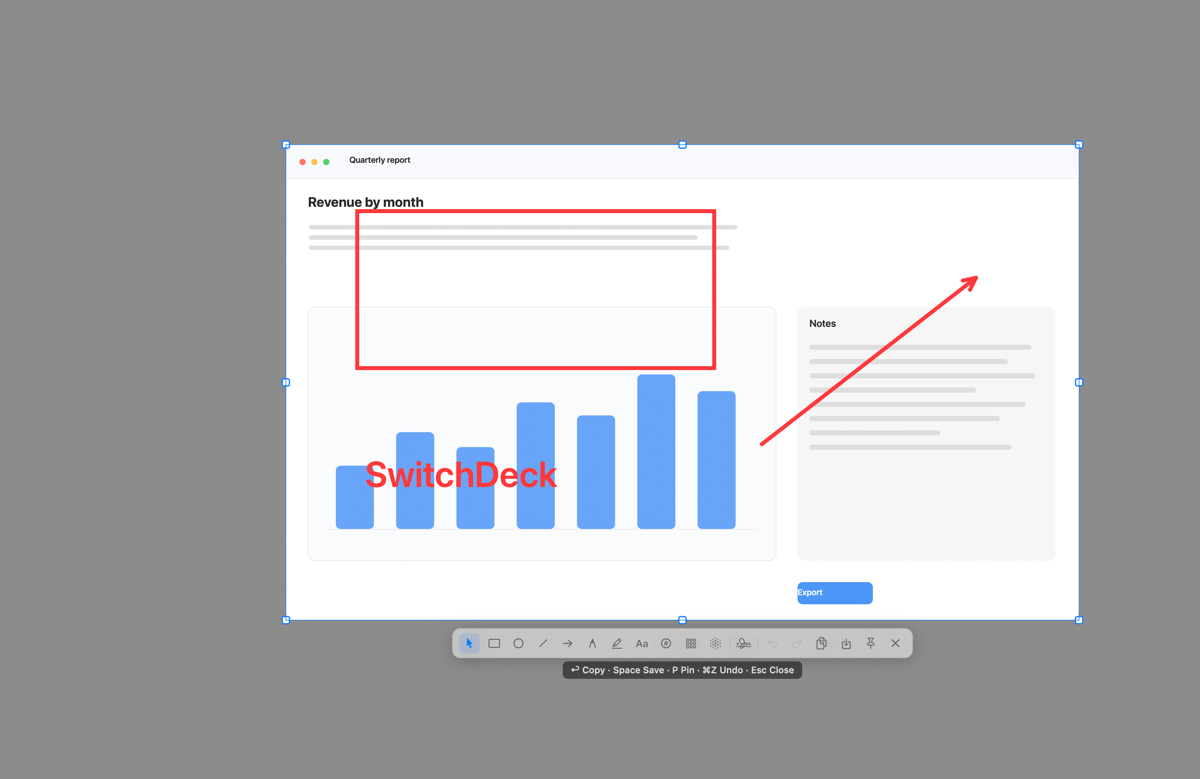
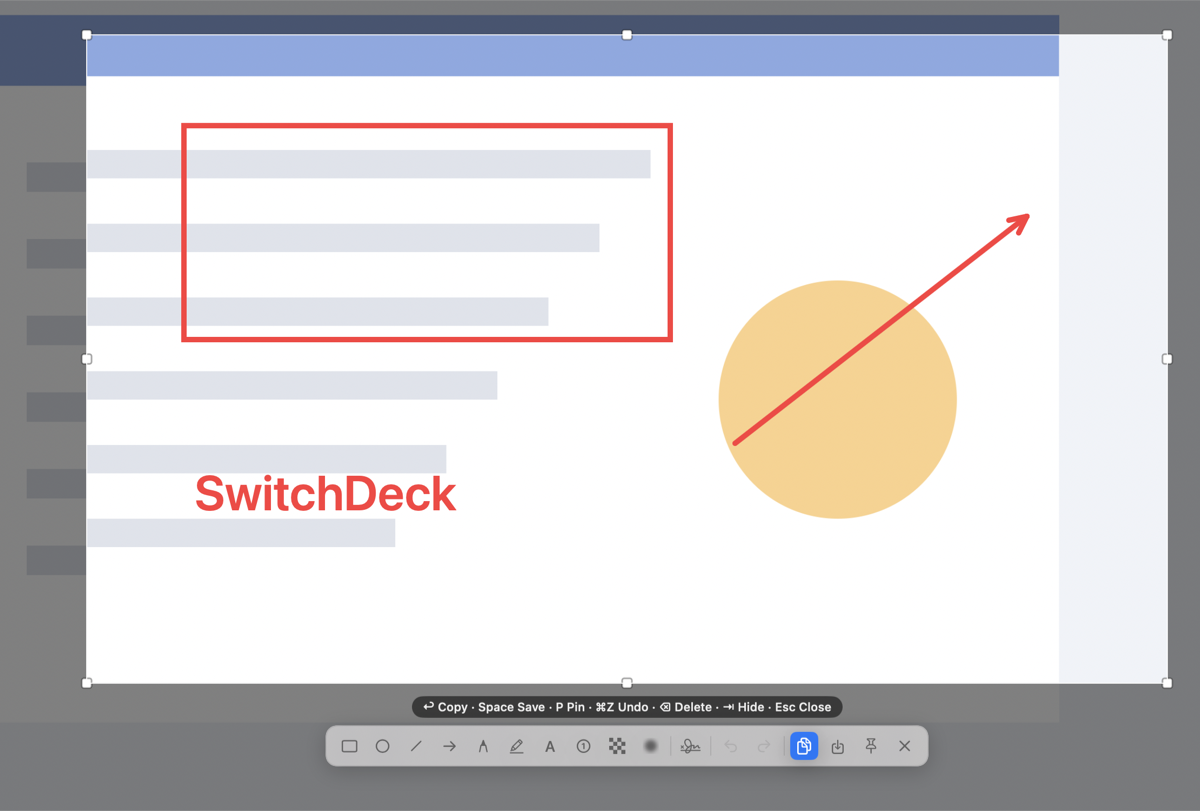
chore(release): 0.10.0 (#30)
* docs(readme): update the screenshot editor section and screenshot for the new toolbar

Assisted-by: AI

* chore(release): 0.10.0

Assisted-by: AI

diff --git a/README.md b/README.md
@@ -21,7 +21,7 @@ Native Swift on AppKit and SwiftUI, no third-party dependencies, free and Apache
 - **Your menu, your order.** Hide the switches you never use and drag the rest into place.
 - **Screenshots without switching apps.** Drag a region, mark it up where it is, then `Enter` to copy or `Space` to save.
 
-**Status: pre-1.0 (0.9.1).** Usable day to day, in English and Traditional Chinese. The settings file format may still change before 1.0.
+**Status: pre-1.0 (0.10.0).** Usable day to day, in English and Traditional Chinese. The settings file format may still change before 1.0.
 
 ## Install
 
@@ -87,16 +87,17 @@ Settings › Recording picks the folder and the microphone. `AVAudioRecorder` on
 
 ## Screenshot editor
 
-<p align="center"><img src="docs/images/editor.png" width="640" alt="The in-place editor: a frozen region with a red rectangle, an arrow and a label, and the tool strip under it"></p>
+<p align="center"><img src="docs/images/editor.png" width="640" alt="The in-place editor: a frozen region with a red rectangle, an arrow and a label, and the toolbar under it"></p>
 
 - `⌥E` starts a capture (change it in Settings › Screenshot). Drag a region, or click a window to capture that window alone (`⇧`-click several to compose them, then `Return` to edit); `F` takes the whole screen, `R` restores the last region.
 - Editing happens **in place**: the selection stays on screen, everything outside it dims, and the toolbar sits under the region — no second window.
-- Tools: rectangle, ellipse, line, arrow (straight / curved / elbow), freehand, highlighter, text (with an optional bubble), numbered markers, mosaic and blur. Picking a tool reveals its style row below; clicking the active tool again (or `Esc`, or `V`) puts it down.
+- Tools: rectangle, ellipse, line, arrow (straight / curved / elbow), freehand, highlighter, text (with an optional bubble), numbered markers, mosaic and blur. Hovering a tool shows its name and shortcut letter; picking one reveals its style row below, and clicking the active tool again (or `Esc`, or `V`) puts it down. `⇥` hides the toolbar.
 - With no tool picked, clicking an existing mark edits that object — the style row shows its own values — and dragging or the eight handles moves and resizes it; `⌫` deletes the selected mark.
+- Colours come from a shared 10-colour palette with recently used and a custom page (hex or RGB); `I` is an eyedropper. Colour and line width are remembered between launches.
 - While selecting, the colour and pixel coordinates under the pointer are shown; `⌥` cycles HEX / RGB / HSL and `C` copies the value and leaves capture mode.
 - The image freezes the moment editing starts, so mosaic and blur are exactly what gets saved. A delayed capture counts down in a small pill; press the shortcut again to cancel it.
 - `Enter` copies, `Space` saves (`~/Downloads`, PNG by default), `P` pins on screen, `⌘Z` / `⇧⌘Z` undo and redo, `Esc` closes; the folder, file-name prefix, format, quality and delay live in Settings › Screenshot.
-- The signature button adds a watermark (the macOS full user name, or text from Settings) with editable colour, position, size, angle and opacity, clipped to the capture; the eye-slash hides it from the image but keeps the text in the file metadata.
+- The signature button adds a watermark (the macOS full user name, or text from Settings) with a sub-bar for on/off, position (or tiled), size and colour, clipped to the capture; **More…** has the rest, including hiding it from the image while keeping the text in the file metadata. Settings › Screenshot sets the default position, size, angle, opacity and colour.
 - Pinned images: the corner × or `Esc` closes, scroll resizes, `⌘`-scroll changes opacity.
 
 ## Permissions

diff --git a/README.zh-TW.md b/README.zh-TW.md
@@ -21,7 +21,7 @@
 - **選單照你的習慣排。** 用不到的開關藏起來，其他的拖曳排序。
 - **截圖不用切換 App。** 拖出區域、原地標註，`Enter` 複製、`Space` 存檔。
 
-**狀態：pre-1.0（0.9.1）。** 已可日常使用，介面有英文與繁體中文。設定檔格式在 1.0 之前仍可能調整。
+**狀態：pre-1.0（0.10.0）。** 已可日常使用，介面有英文與繁體中文。設定檔格式在 1.0 之前仍可能調整。
 
 ## 安裝
 
@@ -91,12 +91,13 @@ open build/SwitchDeck.app
 
 - `⌥E` 擷取（在設定 › 截圖可改）。拖出區域，或點視窗只拍那個視窗（`⇧` 點多個合成一張，再按 `Return` 編輯）；`F` 全螢幕，`R` 上次的區域。
 - 擷取後**就地**編輯：選取範圍留在畫面上、範圍外變暗、工具列在選取區下方，不開第二個視窗。
-- 工具：矩形、橢圓、直線、箭頭（直線／曲線／折線）、手繪、螢光筆、文字（可加氣泡）、編號、馬賽克、模糊。選了工具，下方出現樣式列；再點同一個工具（或按 Esc、V）就放下工具。
+- 工具：矩形、橢圓、直線、箭頭（直線／曲線／折線）、手繪、螢光筆、文字（可加氣泡）、編號、馬賽克、模糊。游標停在工具上會顯示名稱與快捷字母；選了工具，下方出現樣式列；再點同一個工具（或按 Esc、V）就放下工具。`⇥` 隱藏工具列。
 - 沒選工具時點既有標記是改那個物件，樣式列顯示它自己的值；拖曳與八個控制點可移動、縮放，⌫ 刪除選取的標記。
+- 顏色來自共用的 10 色色盤，附最近使用與自訂頁（hex 或 RGB），`I` 是滴管；顏色與線寬跨啟動記住。
 - 選取時顯示指標下的顏色值與像素座標，`⌥` 切 HEX／RGB／HSL，`C` 複製並離開。
 - 編輯一開始影像就凍結，所以馬賽克與模糊就是存下來的結果。延遲擷取以小膠囊倒數，再按快速鍵取消。
 - `Enter` 複製、`Space` 存檔（預設 `~/Downloads`、PNG）、`P` 釘選、`⌘Z`／`⇧⌘Z` 復原與重做、`Esc` 關閉；資料夾、檔名前綴、格式、品質與延遲在設定 › 截圖。
-- 簽名按鈕加浮水印（macOS 使用者全名，或設定裡的字），顏色、位置、大小、角度與不透明度都可改，裁在範圍內；眼睛斜線只把它從影像隱藏，文字仍留在檔案中介資料。
+- 簽名按鈕加浮水印（macOS 使用者全名，或設定裡的字），子選單可開關、選位置（或平鋪）、調大小與顏色，裁在範圍內；「更多…」有其餘選項，包括從影像隱藏但文字仍留在檔案中介資料。預設的位置、大小、角度、不透明度與顏色在設定 › 截圖。
 - 釘選的圖：× 或 `Esc` 關閉，滾輪縮放，`⌘`+滾輪改不透明度。
 
 ## 權限

diff --git a/docs/releases/0.10.0.md b/docs/releases/0.10.0.md
@@ -1,0 +1,55 @@
+# SwitchDeck 0.10.0
+
+The screenshot editor's toolbar is redesigned, and the project is now licensed
+under Apache-2.0.
+
+## License
+
+- **Apache-2.0.** The source is now released under the Apache License 2.0, with
+  a `NOTICE` and `TRADEMARKS.md`. Versions published earlier under the MIT
+  License remain available under their original terms.
+
+## New
+
+- **Toolbar hints and shortcuts.** Hovering a tool shows its name and shortcut;
+  the tools have single-letter shortcuts (`R O L A D H T N M B`), `⇥` hides the
+  toolbar, and shortcuts are ignored while dragging.
+- **No Select button.** With no tool picked you select, move and resize marks
+  directly; click the active tool again, or press `Esc` or `V`, to put it down,
+  and `⌫` deletes the selected mark.
+- **Shared colour palette.** Ten colours, recently used, a custom page (hex and
+  RGB) and an eyedropper (`I`). Colour and line width are remembered between
+  launches.
+- **Watermark sub-bar.** On/off, position (or tiled), size and colour sit in the
+  options row; **More…** has the rest. Settings › Screenshot sets the default
+  position, size, angle, opacity and colour.
+- **Extension hooks.** A host package can add a capture toolbar item, take over
+  a capture, and supply its own app identity (`SwitchDeckCore`).
+
+## Changed
+
+- Toolbar popovers open away from the selection, and the toolbar sits at the
+  bottom edge when the selection is close to the screen edge.
+- Screenshots are sized in points and tagged with their resolution.
+- The colour under the pointer before a selection is read in sRGB.
+
+## Fixed
+
+- Text lays out while typing the way it is drawn.
+- Recognize Text window: `⌘C`, `⌘A` and the other editing shortcuts work.
+- A flaky trash-count test no longer fails intermittently.
+
+## Download
+
+`SwitchDeck-0.10.0.zip` is signed with the same self-signed certificate as 0.9.1 (permissions are kept) but not notarized, so macOS blocks the first launch:
+
+1. Move `SwitchDeck.app` to `/Applications`, double-click it once, click **Done**.
+2. System Settings › Privacy & Security › Security › **Open Anyway**, then authenticate.
+3. Launch it again.
+
+`xattr -dr com.apple.quarantine /Applications/SwitchDeck.app` does the same from a terminal. Recognize Text needs Screen Recording.
+
+## Requirements
+
+- macOS 14 or later
+- Xcode command line tools (Swift 5.9+)
